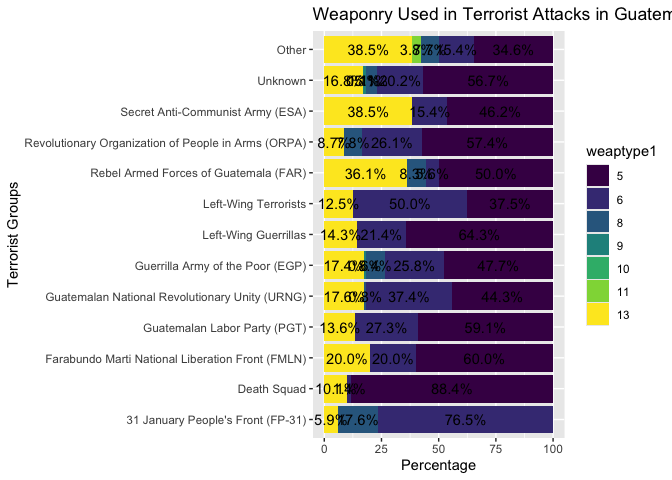
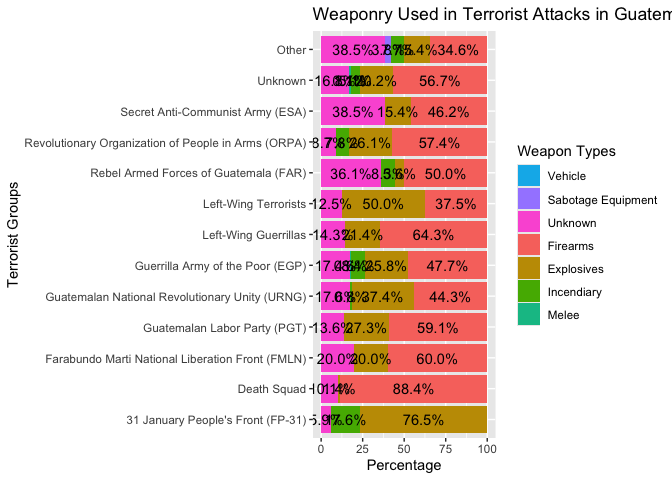
updated

diff --git a/Terror_Latin_America.md b/Terror_Latin_America.md
@@ -56,7 +56,7 @@ GT$ishostkid<-as.factor(GT$ishostkid)
 GT$kidhijcountry<-as.character(GT$kidhijcountry)
 ```
 
-### Defining our Variables
+### Defining Variables
 
 My variables are as follows:
 
@@ -149,7 +149,7 @@ chisq.test(GS)
     ## data:  GS
     ## X-squared = 1450.9, df = 1, p-value < 2.2e-16
 
-Since the p-value \> .05, we reject the null hypothesis. This indicates
+Since the p-value \< .05, we reject the null hypothesis. This indicates
 there is a significant difference in the frequency of attacks between
 both countries. Let’s dive deeper and visualize the attack frequencies
 for both countries.
@@ -253,11 +253,8 @@ GT %>%
   mutate(count=prop.table(n)*100) %>%
   ggplot(aes(x=gname, y=count, fill=weaptype1))+geom_bar(stat='identity')+    
   geom_text(aes(label=paste0(sprintf("%1.1f",count),"%")),position=position_stack(vjust = .5))+
-  labs(y="Percentage",x="Terrorist Groups",title="Weaponry Used in Terrorist Attacks in Guatemala ")+coord_flip()+scale_fill_discrete(name="Weapon Types", breaks=c(10, 11,13, 5, 6,8,9), labels=c("Vehicle", "Sabotage Equipment", "Unknown", "Firearms", "Explosives","Incendiary", "Melee"))+scale_fill_viridis(discrete=TRUE)
+  labs(y="Percentage",x="Terrorist Groups",title="Weaponry Used in Terrorist Attacks in Guatemala ")+coord_flip()+scale_fill_discrete(name="Weapon Types", breaks=c(10, 11,13, 5, 6,8,9), labels=c("Vehicle", "Sabotage Equipment", "Unknown", "Firearms", "Explosives","Incendiary", "Melee"))
 ```
-
-    ## Scale for fill is already present.
-    ## Adding another scale for fill, which will replace the existing scale.
 
 ![](Terror_Latin_America_files/figure-gfm/unnamed-chunk-7-1.png)<!-- -->
 
@@ -267,7 +264,7 @@ choice, 76.5% of their attacks were explosive attacks. All manners of
 hurting people are awful, but to choose explosives, I think there’s an
 extra layer of anger and resentment to use that.
 
-### Comparing Same Terrorist Group in Each Country
+### Breakdown of Attack Types by Terrorist Group in Guatemala and El Salvador
 
 ``` r
 GT %>% mutate(country_txt=factor(country_txt, levels = c("Guatemala","El Salvador")),
@@ -284,7 +281,7 @@ GT %>% mutate(country_txt=factor(country_txt, levels = c("Guatemala","El Salvado
 ``` r
 Sums<-Sums[rowSums(is.na(Sums))<.1,] 
 #plot
-ggplot(Sums,aes(x=country_txt,y=Percent,fill=attacktype1))+geom_bar(stat='identity',position = position_stack())+facet_wrap(.~gname)+geom_text(aes(label=Lab),position = position_stack(vjust = .5),size=2)+labs(x="Country", title = "Distribution of Terrorist Groups Based on Each Country")+  scale_color_viridis(discrete = TRUE) 
+ggplot(Sums,aes(x=country_txt,y=Percent,fill=attacktype1))+geom_bar(stat='identity',position = position_stack())+facet_wrap(.~gname)+geom_text(aes(label=Lab),position = position_stack(vjust = .5),size=2)+labs(x="Country", title = "Terrorist Groups and Their Attack Types in Guatemala & El Salvador")+scale_fill_discrete(name="Attack Type")
 ```
 
 ![](Terror_Latin_America_files/figure-gfm/unnamed-chunk-8-1.png)<!-- -->
@@ -299,7 +296,7 @@ attacks that would have a bigger impact in the country and among the
 people. FMLN is hard to discuss considering there’s great discrepancies
 in the number of attacks.
 
-### Terrorist Attacks over Time
+### Terrorist Attacks over Time (Time Series Plot)
 
 ``` r
 GT2 <- GT %>%
@@ -334,3 +331,9 @@ ggplot(GT2, aes(x = year_month, y = attack_count, color = country, group = count
     ## (`geom_line()`).
 
 ![](Terror_Latin_America_files/figure-gfm/unnamed-chunk-9-1.png)<!-- -->
+
+From the data, I plotted the frequency of attacks per month (from
+1970-2017) in Guatemala and El Salvador. As anticipated, El Salvador had
+a greater average of attacks than Guatemala. However, I was shocked
+about the huge spike of attacks in Guatemala around 1982. I would like
+to do more research to see what events led to this spike.
